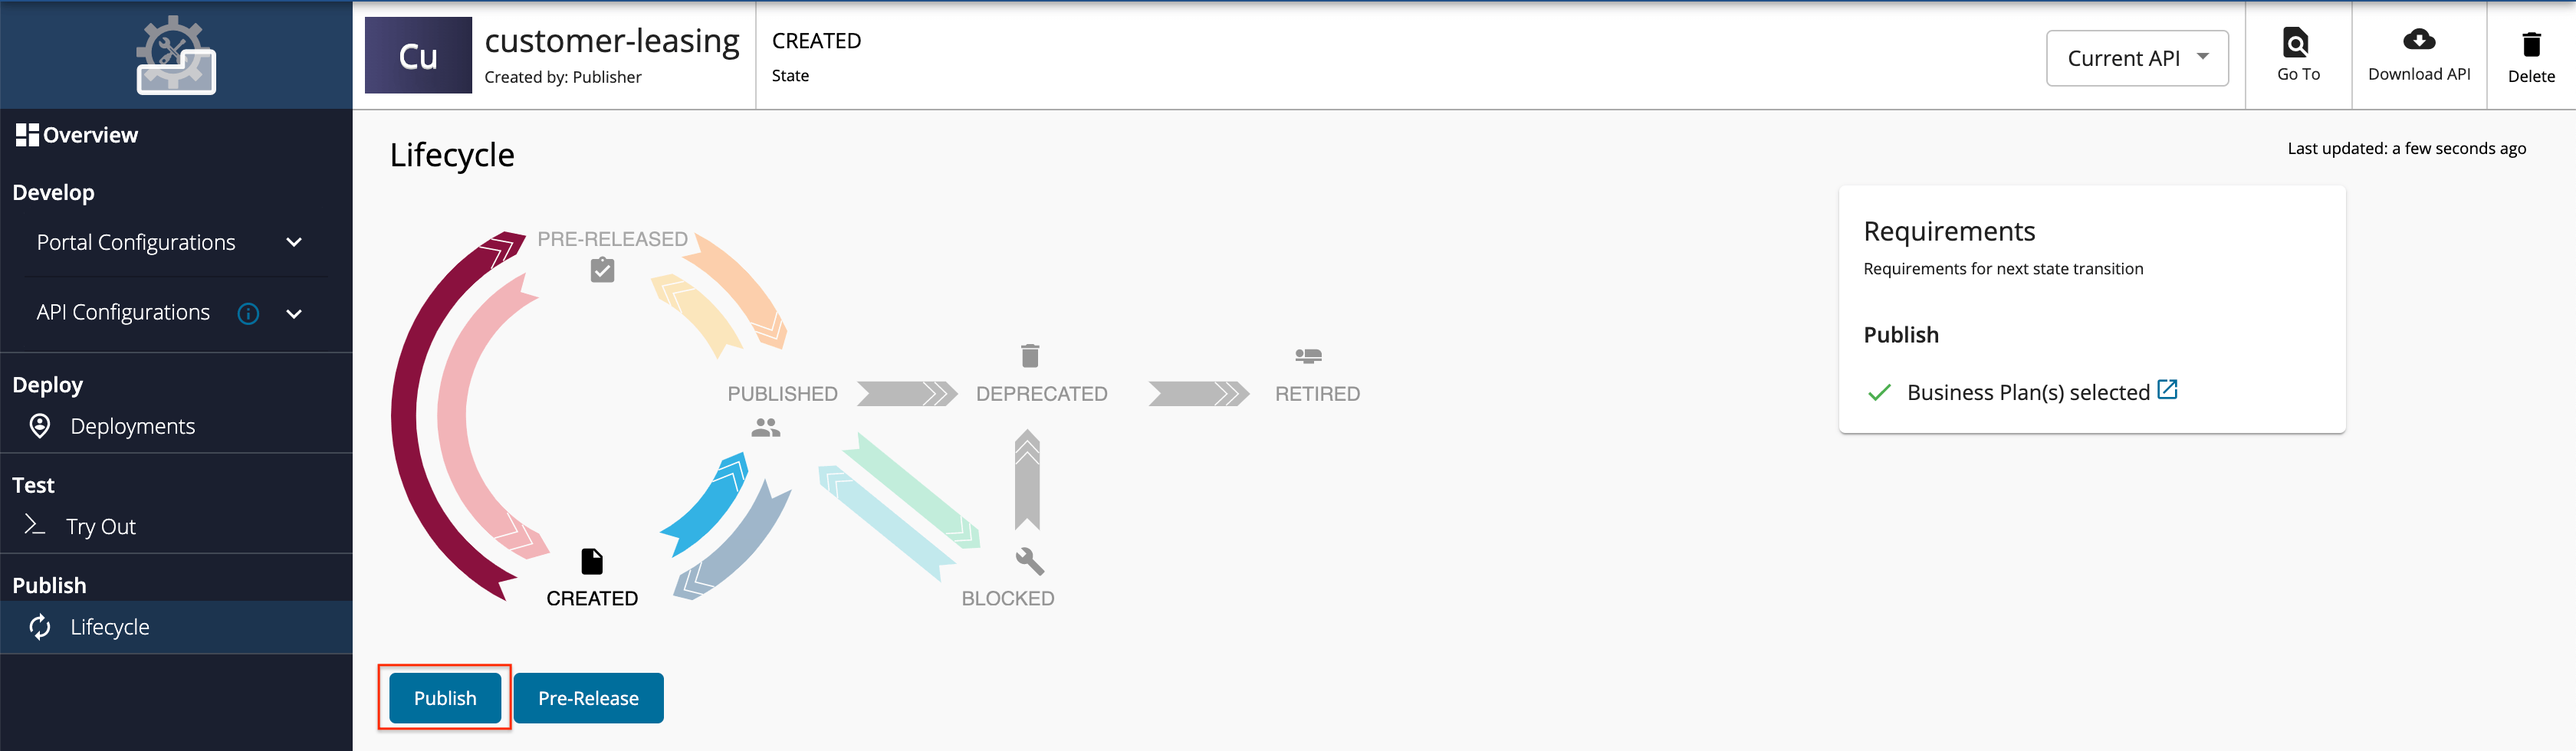
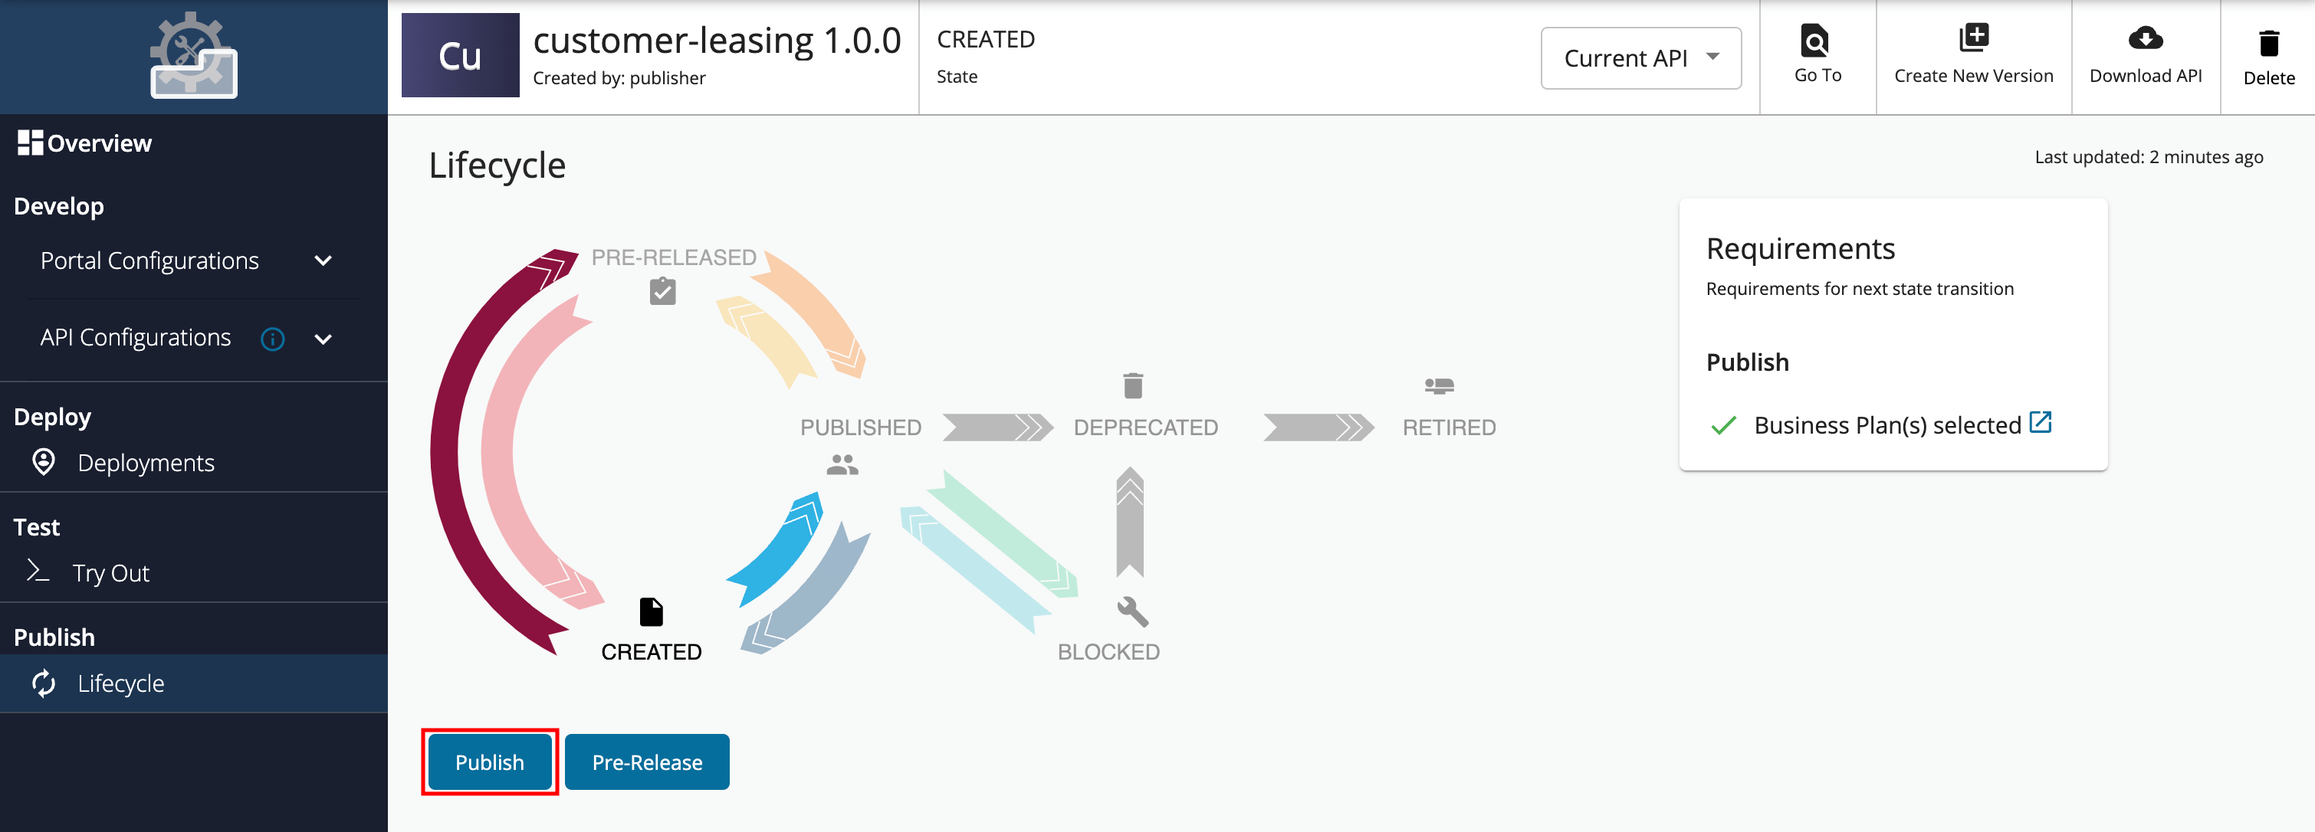
Add api product versioning docs

diff --git a/en/docs/design/create-api-product/create-api-product.md b/en/docs/design/create-api-product/create-api-product.md
@@ -75,6 +75,15 @@ the attached OpenAPI definition (a.k.a Swagger definition) files]({{base_path}}/
      </td>
      <td>
      customer-leasing
+     <p>You can define the API Product's version as a parameter of its context by adding the <code>{version}</code> into the context. For example, <code>{version}/customer-leasing</code>. The API Manager assigns the actual version of the API Product to the <code>{version}</code> parameter internally. For example, <code>https://localhost:8243/1.0.0/customer-leasing</code>. Note that the version appears before the context, allowing you to group your API Products based on the versions.</p>
+     </td>
+     </tr>
+     <tr>
+     <td>
+     Version
+     </td>
+     <td>
+     1.0.0
      </td>
      </tr>
      </table>
@@ -149,3 +158,5 @@ the attached OpenAPI definition (a.k.a Swagger definition) files]({{base_path}}/
 
      For more information on how to subscribe to an API, see [Subscribe to an API]({{base_path}}/consume/manage-subscription/subscribe-to-an-api/).
     
+!!! note
+    To learn about API Product versioning refer [Create a New API Version]({{base_path}}/design/api-versioning/create-a-new-api-version).

diff --git a/en/docs/design/api-versioning/backward-compatibility.md b/en/docs/design/api-versioning/backward-compatibility.md
@@ -17,3 +17,6 @@ If you mark any version of an API as the default, two API URLs are listed in its
 ## Default version and Backward Compatibility
 
 When you need to modify a published API, you can create a new version of the existing API. In addition, you can make the new version of the API the default API version, so that the subscribers who are using the default API URL for accessing the API can get the changes immediately. However, the changes made to the API version must be backward compatible in order to enable the subscribers to be able to use the API as they did before, without failures. 
+
+!!! note
+    For APIs, default version will be set to `false` when creating a new API. However for API Products, default version will be set to `true` when creating a new API Product.

diff --git a/en/docs/design/api-versioning/create-a-new-api-version.md b/en/docs/design/api-versioning/create-a-new-api-version.md
@@ -31,6 +31,9 @@ Follow the instructions below to create a new version of an existing API:
      You are redirected to the API **Overview** page. 
 
 !!! note
+    For API Product versioning create an API Product following [Create an API Product]({{base_path}}/design/create-api-product/create-api-product). Then follow the above steps as similar to API versioning.
+
+!!! note
     For more details on the default version, see [Backward Compatibility]({{base_path}}/design/api-versioning/backward-compatibility/) section.
 
 !!! note
